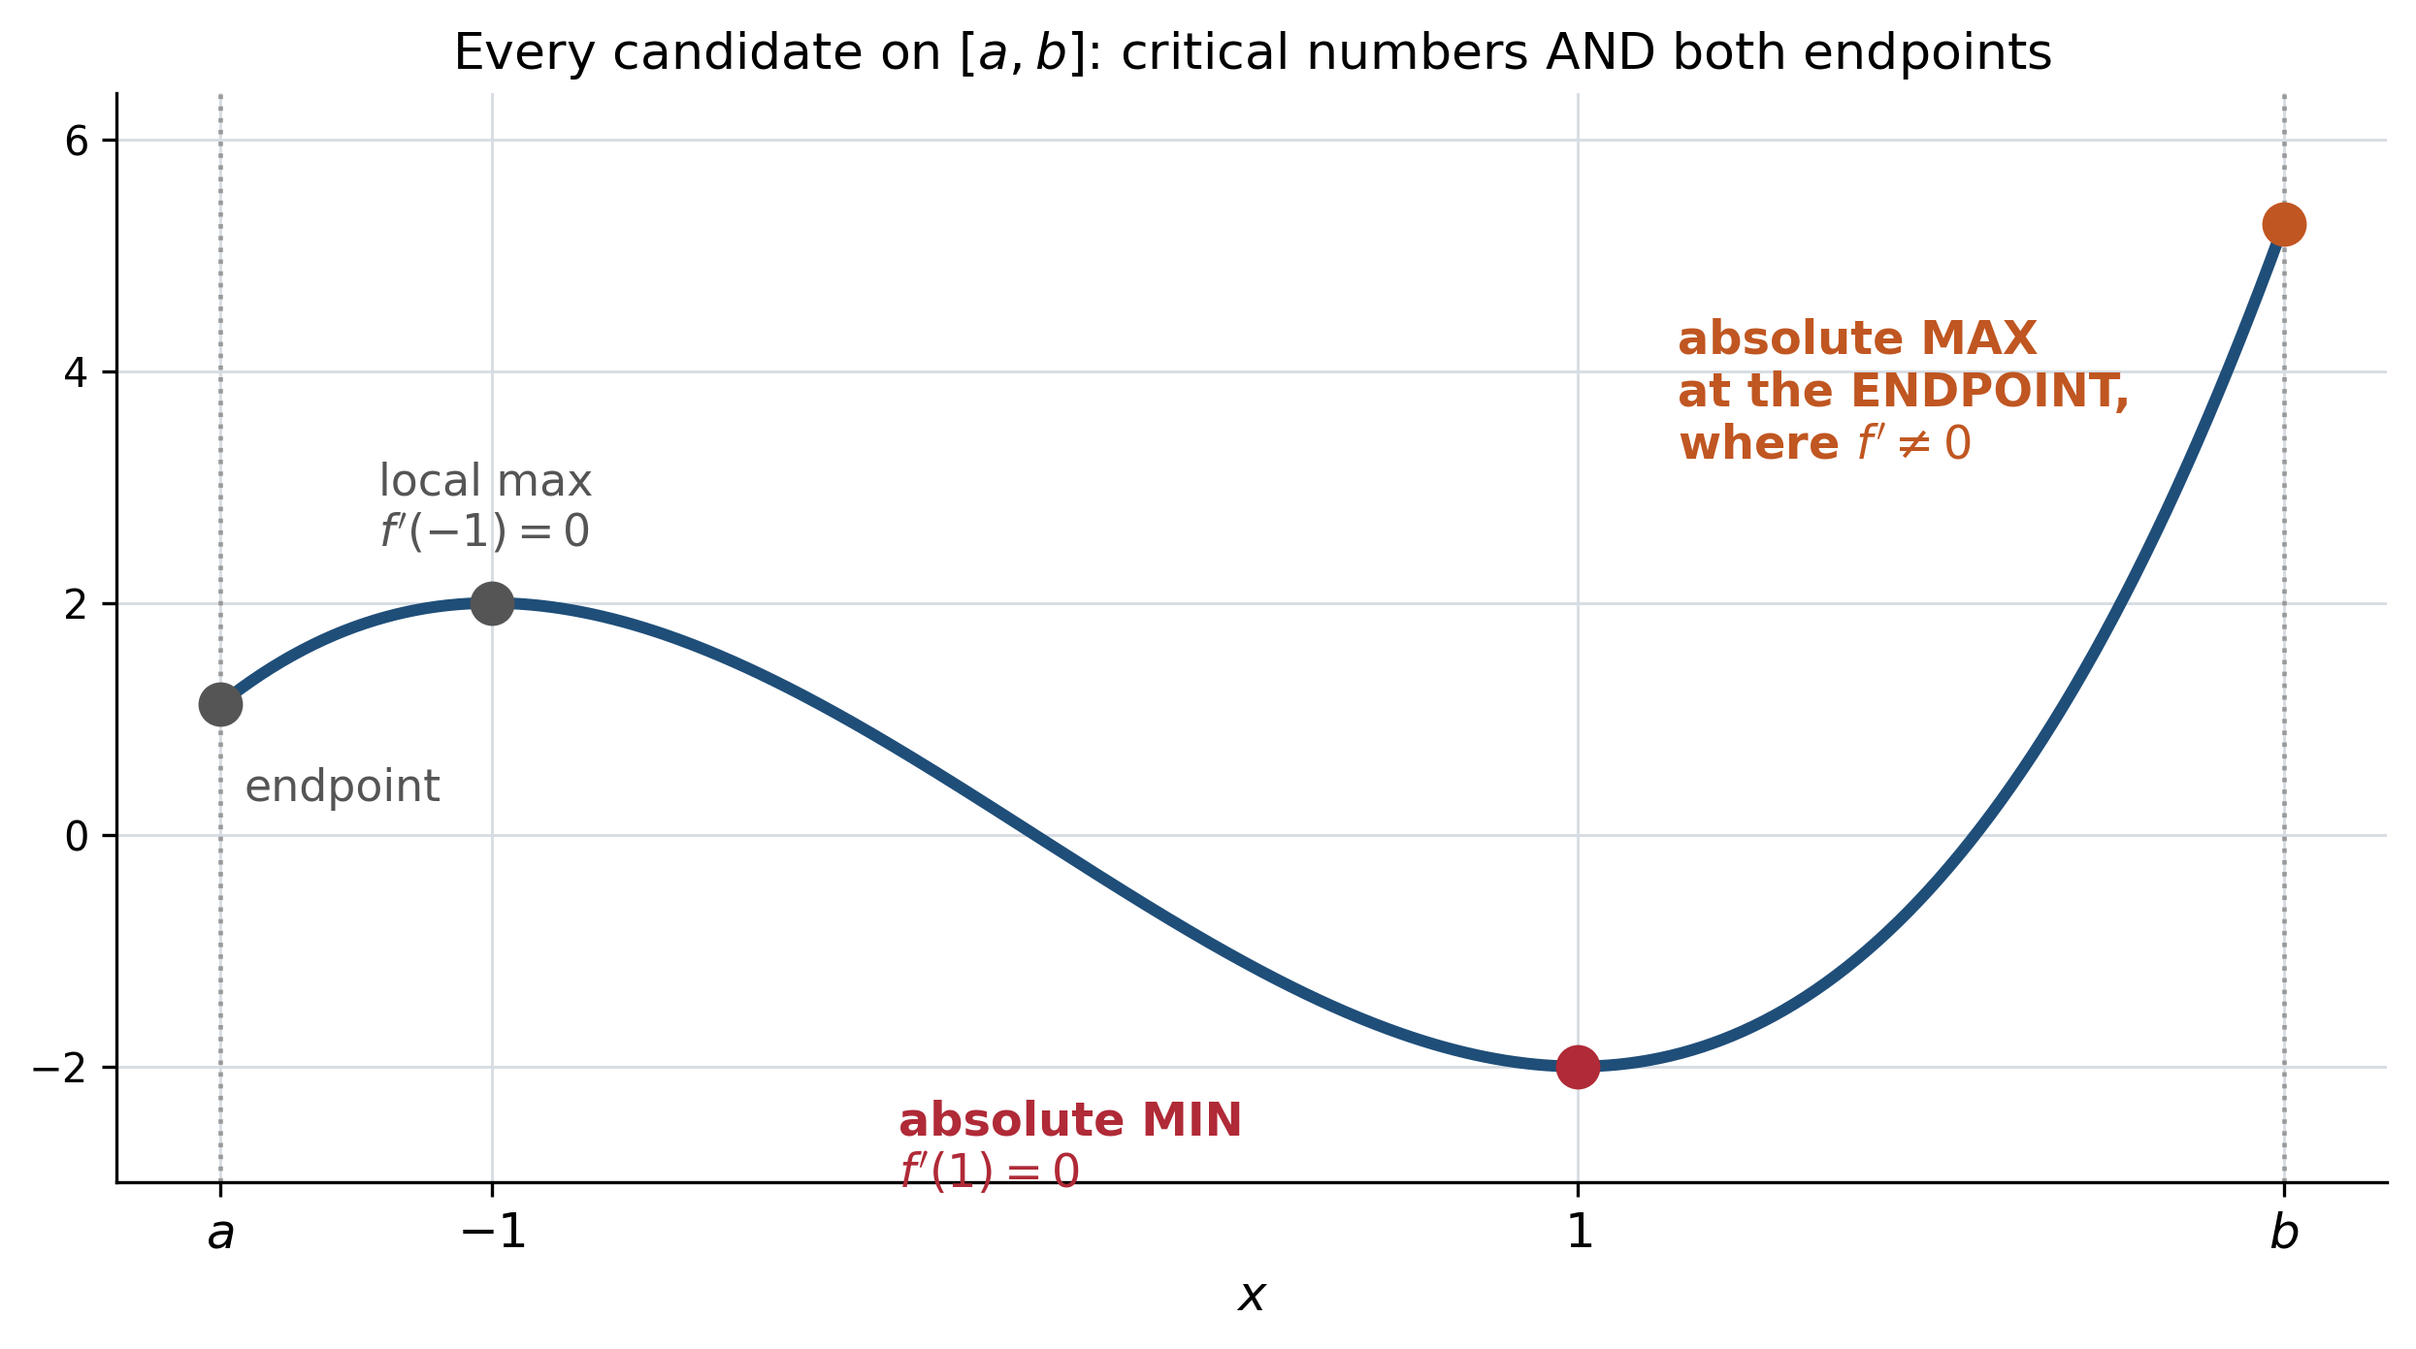
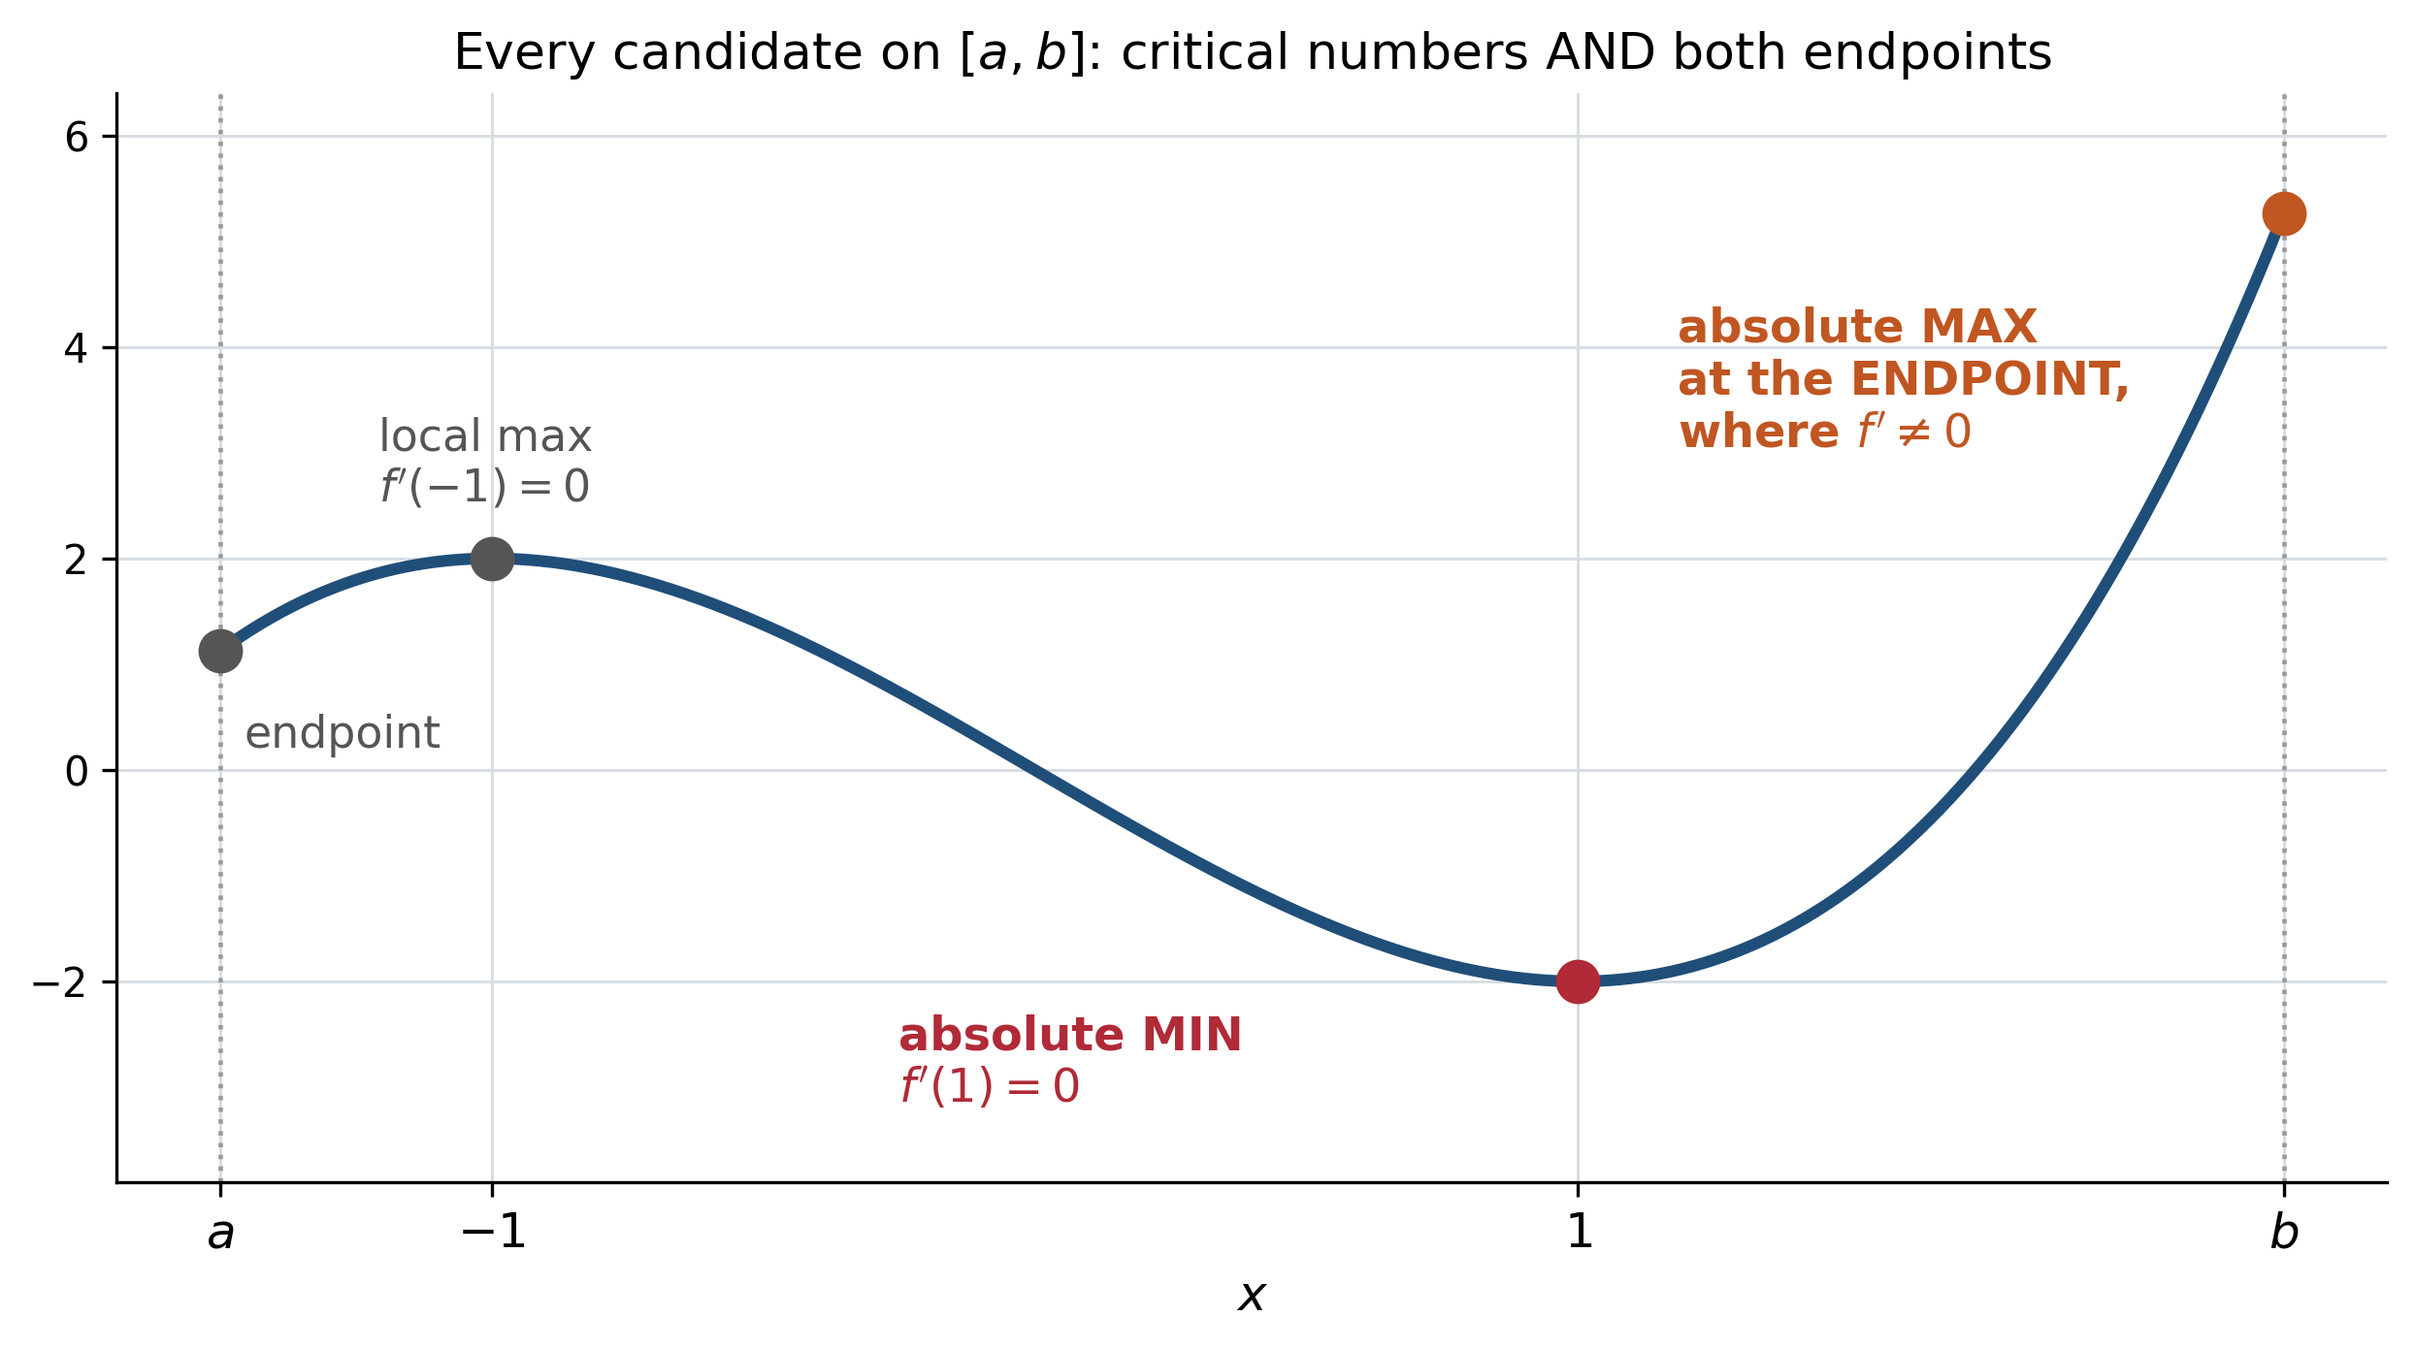
MTH207: update course resources

diff --git a/MTH207/notes/Section_4p1/Section_4p1_class.html b/MTH207/notes/Section_4p1/Section_4p1_class.html
@@ -398,37 +398,52 @@ other failure: <strong>closed but discontinuous</strong>, and again nothing is
 attained. Drop <em>closed</em> or drop <em>continuous</em> and the guarantee is
 gone.</p></div>
 </section>
-<section class="beat" aria-label="The Closed Interval Method" data-source-line="555">
+<section class="beat" aria-label="The Closed Interval Method" data-source-line="557">
   <h2>The Closed Interval Method</h2>
 <p>The EVT says the answer exists. Fermat says it is at a critical number &mdash;
 <em>or</em> at an endpoint, which Fermat never covered because Fermat is about
 interior points. So check both.</p>
   <div class="key"><p><strong>To find the absolute extrema of a continuous $\displaystyle f$ on
 $\displaystyle [a,b]$:</strong>
-<ol><li>Find the <strong>critical numbers</strong> of $\displaystyle f$ in $\displaystyle (a,b)$.</li><li>Evaluate $\displaystyle f$ at each one, <strong>and at both endpoints</strong> $\displaystyle a$ and $\displaystyle b$.</li><li>The <strong>largest</strong> value on that list is the absolute maximum; the
-      <strong>smallest</strong> is the absolute minimum.</li></ol>
+<ol><li>Find the <strong>critical numbers</strong> of $\displaystyle f$ that lie in $\displaystyle [a,b]$, and
+      throw away any that do not.</li><li>Make a <strong>table</strong>: one row for each critical number and one for
+      <strong>each endpoint</strong>, with $\displaystyle x$ in one column and $\displaystyle f(x)$ in the next.</li><li>By the <strong>Extreme Value Theorem</strong> both an absolute maximum and an
+      absolute minimum exist, and each can only happen at a critical number
+      or an endpoint &mdash; so <strong>both of them are rows of your table.</strong>
+      Take the largest $\displaystyle f(x)$ and the smallest.</li><li><strong>Write the answers</strong> as a value and a location.</li></ol>
 No derivative test, no graph. It is a finite list and you compare numbers.</p></div>
+  <div class="key"><p><strong>The value and the location are two different answers.</strong> The
+extreme <strong>value</strong> is a $\displaystyle y$ &mdash; a number the function actually reaches.
+<strong>Where</strong> it happens is an $\displaystyle x$. So the sentence has both in it:
+<em>“$\displaystyle f$ has an absolute maximum value of $\displaystyle 7$ at $\displaystyle x = 3$.”</em> Writing just
+“the absolute maximum is $\displaystyle 3$” answers neither question clearly.</p></div>
   <div class="turn my"><span class="badge">My turn</span><p>Find the absolute maximum and minimum of
 $\displaystyle f(x) = x^{3} - 3x + 1$ on $\displaystyle [0,3]$.
 <span style="display:block;height:0.3em"></span>
 Watch this one. You get the next.</p></div>
-  <details class="sol"><summary>Show: step 1 &mdash; the critical numbers</summary>
+  <details class="sol"><summary>Show: step 1 &mdash; the critical numbers, and which ones survive</summary>
 <div class="dm">$$f'(x) = 3x^{2} - 3 = 3\left(x^{2}-1\right) = 3\left(x-1\right)\left(x+1\right)$$</div>
 <div class="dm">$$c = 1 \quad\text{and}\quad c = -1$$</div>
-<p>⚠ $\displaystyle c=-1$ is <strong>not in $\displaystyle [0,3]$</strong>, so it is thrown away. Only $\displaystyle c=1$
-survives.</p>
+<p>⚠ $\displaystyle c=-1$ is <strong>not in $\displaystyle [0,3]$</strong>, so it is thrown away. Only $\displaystyle c=1$ survives.</p>
   </details>
-  <details class="sol"><summary>Show: step 2 &mdash; evaluate at the survivor and both endpoints</summary>
-<div class="dm">$$f(0) = 0 - 0 + 1 = 1$$</div>
-<div class="dm">$$f(1) = 1 - 3 + 1 = -1$$</div>
-<div class="dm">$$f(3) = 27 - 9 + 1 = 19$$</div>
+  <details class="sol"><summary>Show: step 2 &mdash; the table: the survivor and both endpoints</summary>
+<div class="dm">$$f(0) = 0 - 0 + 1 = 1 \qquad f(1) = 1 - 3 + 1 = -1 \qquad f(3) = 27 - 9 + 1 = 19$$</div>
+<table><caption>Candidate values: both endpoints and every critical number</caption><tr><th scope="col">$\displaystyle x$</th><th scope="col">$\displaystyle f(x)$</th><th scope="col">why it is on the list</th></tr><tr><td>$\displaystyle 0$</td><td>$\displaystyle 1$</td><td>left endpoint</td></tr><tr><td>$\displaystyle 1$</td><td>$\displaystyle -1$</td><td>critical number</td></tr><tr><td>$\displaystyle 3$</td><td>$\displaystyle 19$</td><td>right endpoint</td></tr></table>
   </details>
-  <details class="sol"><summary>Show: step 3 &mdash; compare the three numbers</summary>
-<p>Largest is $\displaystyle 19$, smallest is $\displaystyle -1$:</p>
-<div class="dm">$$\text{absolute max } = 19 \text{ at } x = 3, \qquad \text{absolute min } = -1 \text{ at } x = 1$$</div>
+  <details class="sol"><summary>Show: step 3 &mdash; why the table is the whole search</summary>
+<p>$\displaystyle f$ is continuous on $\displaystyle [0,3]$, so by the <strong>Extreme Value Theorem</strong> an absolute maximum and an absolute minimum both exist.
+Each of them is either at a critical number or at an endpoint &mdash; and every one of those is a row above.
+So the two winners are already in the table: nothing outside it needs checking.
+<span style="display:block;height:0.3em"></span>
+Largest $\displaystyle f(x)$ is $\displaystyle 19$. Smallest is $\displaystyle -1$.</p>
+  </details>
+  <details class="sol"><summary>Show: step 4 &mdash; write the answers</summary>
+<p>$\displaystyle f$ has an absolute <strong>maximum value</strong> of $\displaystyle 19$, at $\displaystyle x = 3$.
+<span style="display:block;height:0.3em"></span>
+$\displaystyle f$ has an absolute <strong>minimum value</strong> of $\displaystyle -1$, at $\displaystyle x = 1$.</p>
   </details>
 </section>
-<section class="beat" aria-label="Notice Where the Maximum Was" data-source-line="603">
+<section class="beat" aria-label="Notice Where the Maximum Was" data-source-line="657">
   <h2>Notice Where the Maximum Was</h2>
 <p>The maximum was at $\displaystyle x=3$ &mdash; an <strong>endpoint</strong>, where $\displaystyle f'(3) = 24 \neq 0$.</p>
   <figure style="width:84%"><button type="button" class="zoom" data-src="figures/closed_interval.png" aria-label="Enlarge figure"><img src="figures/closed_interval.png" alt="A cubic drawn on a closed interval. It has a local maximum
@@ -442,54 +457,69 @@ evaluates the endpoints <strong>every time</strong>, even when they look
 uninteresting &mdash; and it is why <em>“if $\displaystyle f$ has an absolute minimum at
 $\displaystyle c$, then $\displaystyle f'(c)=0$”</em> is <strong>false</strong>.</p></div>
   <div class="turn your"><span class="badge">Your turn</span><p>Find the absolute maximum and minimum of
-$\displaystyle g(x) = 2x^{3} + 3x^{2} - 12x$ on $\displaystyle [-3, 2]$.</p></div>
-  <details class="sol"><summary>Show: critical numbers first</summary>
+$\displaystyle g(x) = 2x^{3} + 3x^{2} - 12x$ on $\displaystyle [-3, 2]$.
+<span style="display:block;height:0.3em"></span>
+All four steps, and write the answers in sentences.</p></div>
+  <details class="sol"><summary>Show: step 1 &mdash; critical numbers</summary>
 <div class="dm">$$g'(x) = 6x^{2} + 6x - 12 = 6\left(x^{2}+x-2\right) = 6\left(x+2\right)\left(x-1\right)$$</div>
 <div class="dm">$$c = -2 \quad\text{and}\quad c = 1 \qquad\text{--- both are inside } [-3,2]$$</div>
+<p>This time nothing gets discarded, so the table has <strong>four</strong> rows.</p>
   </details>
-  <details class="sol"><summary>Show: evaluate at all four</summary>
-<div class="dm">$$g(-3) = -54 + 27 + 36 = 9$$</div>
-<div class="dm">$$g(-2) = -16 + 12 + 24 = 20$$</div>
-<div class="dm">$$g(1) = 2 + 3 - 12 = -7$$</div>
-<div class="dm">$$g(2) = 16 + 12 - 24 = 4$$</div>
+  <details class="sol"><summary>Show: step 2 &mdash; the table</summary>
+<div class="dm">$$g(-3) = -54 + 27 + 36 = 9 \qquad g(-2) = -16 + 12 + 24 = 20$$</div>
+<div class="dm">$$g(1) = 2 + 3 - 12 = -7 \qquad g(2) = 16 + 12 - 24 = 4$$</div>
+<table><caption>Candidate values: both endpoints and every critical number</caption><tr><th scope="col">$\displaystyle x$</th><th scope="col">$\displaystyle g(x)$</th><th scope="col">why it is on the list</th></tr><tr><td>$\displaystyle -3$</td><td>$\displaystyle 9$</td><td>left endpoint</td></tr><tr><td>$\displaystyle -2$</td><td>$\displaystyle 20$</td><td>critical number</td></tr><tr><td>$\displaystyle 1$</td><td>$\displaystyle -7$</td><td>critical number</td></tr><tr><td>$\displaystyle 2$</td><td>$\displaystyle 4$</td><td>right endpoint</td></tr></table>
   </details>
-  <details class="sol"><summary>Show: compare</summary>
-<div class="dm">$$\text{absolute max } = 20 \text{ at } x = -2, \qquad \text{absolute min } = -7 \text{ at } x = 1$$</div>
-<p>This time both winners are interior critical numbers &mdash; which is why you
-cannot guess, you evaluate.</p>
+  <details class="sol"><summary>Show: steps 3 and 4 &mdash; read them off and name them</summary>
+<p>$\displaystyle g$ is continuous on $\displaystyle [-3,2]$, so the EVT says both winners exist, and both have to be rows of this table.
+<span style="display:block;height:0.3em"></span>
+$\displaystyle g$ has an absolute <strong>maximum value</strong> of $\displaystyle 20$, at $\displaystyle x = -2$.
+<span style="display:block;height:0.3em"></span>
+$\displaystyle g$ has an absolute <strong>minimum value</strong> of $\displaystyle -7$, at $\displaystyle x = 1$.
+<span style="display:block;height:0.3em"></span>
+This time both winners are interior critical numbers &mdash; last time the maximum was an endpoint. That is exactly why you evaluate instead of guessing.</p>
   </details>
 </section>
-<section class="beat" aria-label="When the Winner Has No Derivative" data-source-line="651">
+<section class="beat" aria-label="When the Winner Has No Derivative" data-source-line="722">
   <h2>When the Winner Has No Derivative</h2>
   <div class="turn your"><span class="badge">Your turn</span><p>Find the absolute maximum and minimum of
 $\displaystyle f(x) = x^{2/3}$ on $\displaystyle \left[-1, 8\right]$.</p></div>
-  <details class="sol"><summary>Show: the critical number comes from the SECOND clause</summary>
+  <details class="sol"><summary>Show: step 1 &mdash; the critical number comes from the SECOND clause</summary>
 <div class="dm">$$f'(x) = \tfrac{2}{3}x^{-1/3} = \frac{2}{3\sqrt[3]{x}}$$</div>
 <p>Never zero. But $\displaystyle f'(0)$ <strong>does not exist</strong>, and $\displaystyle 0$ is in the domain
 ($\displaystyle f(0)=0$), so</p>
 <div class="dm">$$c = 0$$</div>
-<p>is the only critical number.</p>
+<p>is the only critical number, and it is inside $\displaystyle [-1,8]$.</p>
   </details>
-  <details class="sol"><summary>Show: evaluate at the critical number and both endpoints</summary>
-<div class="dm">$$f(-1) = \left(-1\right)^{2/3} = 1$$</div>
-<div class="dm">$$f(0) = 0$$</div>
-<div class="dm">$$f(8) = 8^{2/3} = \left(\sqrt[3]{8}\right)^{2} = 4$$</div>
-<div class="dm">$$\text{absolute max } = 4 \text{ at } x = 8, \qquad \text{absolute min } = 0 \text{ at } x = 0$$</div>
+  <details class="sol"><summary>Show: step 2 &mdash; the table</summary>
+<div class="dm">$$f(-1) = \left(-1\right)^{2/3} = 1 \qquad f(0) = 0 \qquad f(8) = 8^{2/3} = \left(\sqrt[3]{8}\right)^{2} = 4$$</div>
+<table><caption>Candidate values: both endpoints and every critical number</caption><tr><th scope="col">$\displaystyle x$</th><th scope="col">$\displaystyle f(x)$</th><th scope="col">why it is on the list</th></tr><tr><td>$\displaystyle -1$</td><td>$\displaystyle 1$</td><td>left endpoint</td></tr><tr><td>$\displaystyle 0$</td><td>$\displaystyle 0$</td><td>critical number, where $\displaystyle f'$ does not exist</td></tr><tr><td>$\displaystyle 8$</td><td>$\displaystyle 4$</td><td>right endpoint</td></tr></table>
+  </details>
+  <details class="sol"><summary>Show: steps 3 and 4 &mdash; the winners, named</summary>
+<p>$\displaystyle f$ is continuous on $\displaystyle [-1,8]$ &mdash; a cube root is continuous even where it has no derivative &mdash; so the EVT applies and both winners are in the table.
+<span style="display:block;height:0.3em"></span>
+$\displaystyle f$ has an absolute <strong>maximum value</strong> of $\displaystyle 4$, at $\displaystyle x = 8$.
+<span style="display:block;height:0.3em"></span>
+$\displaystyle f$ has an absolute <strong>minimum value</strong> of $\displaystyle 0$, at $\displaystyle x = 0$.</p>
   </details>
   <div class="key"><p>The minimum sits exactly where the derivative fails to exist. A
-student who only ever solves $\displaystyle f'(x)=0$ never finds it &mdash; and that is the
-whole reason the definition of a critical number has two clauses.</p></div>
+student who only ever solves $\displaystyle f'(x)=0$ never puts that row in the table &mdash;
+and that is the whole reason the definition of a critical number has two
+clauses.</p></div>
 </section>
-<section class="beat" aria-label="What You Should Be Able to Do" data-source-line="684">
+<section class="beat" aria-label="What You Should Be Able to Do" data-source-line="772">
   <h2>What You Should Be Able to Do</h2>
 <ul><li>State the difference between a <strong>local</strong> and an <strong>absolute</strong>
       extremum &mdash; the quantifier, “near $\displaystyle c$” versus “all $\displaystyle x$”.</li><li>Find <strong>critical numbers</strong>: solve $\displaystyle f'(x)=0$ <strong>and</strong> find where
       $\displaystyle f'$ fails to exist, keeping only numbers <strong>in the domain</strong>.</li><li>Say why $\displaystyle f'(c)=0$ makes $\displaystyle c$ a <strong>candidate</strong>, not an answer, and
       give $\displaystyle x^{3}$ as the counterexample.</li><li>State the <strong>Extreme Value Theorem</strong> with both hypotheses, and say
-      what fails without each.</li><li>Run the <strong>Closed Interval Method</strong>: critical numbers inside, then
-      both endpoints, then compare the list.</li></ul>
+      what fails without each.</li><li>Run the <strong>Closed Interval Method</strong>: critical numbers inside the
+      interval, a <strong>table</strong> that also carries both endpoints, and the
+      EVT as the reason the table is the whole search.</li><li><strong>Write an extremum as a value and a location</strong> &mdash; “$\displaystyle f$ has an
+      absolute maximum value of $\displaystyle 19$ at $\displaystyle x = 3$” &mdash; not as a bare number.</li></ul>
   <div class="key"><p>The derivative does not hand you the maximum. It hands you a
-<strong>short list</strong>, and you finish the job by evaluating and comparing.</p></div>
+<strong>short list</strong>, and you finish the job by evaluating, comparing, and
+saying which value occurred where.</p></div>
   <p class="practicelink"><a href="https://datascienceuwl.github.io/MTH207/extra-practice/#day30" target="_blank" rel="noopener">More practice for this day &rarr;</a></p>
 </section>
 </main>
